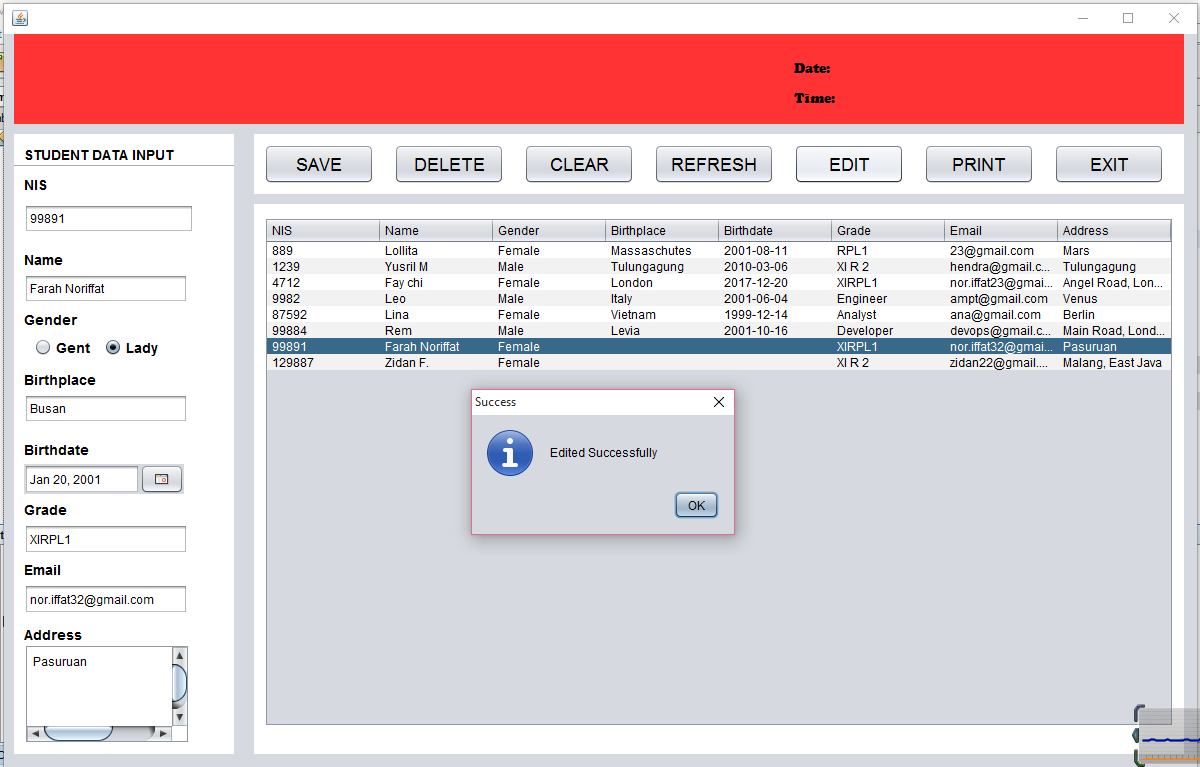
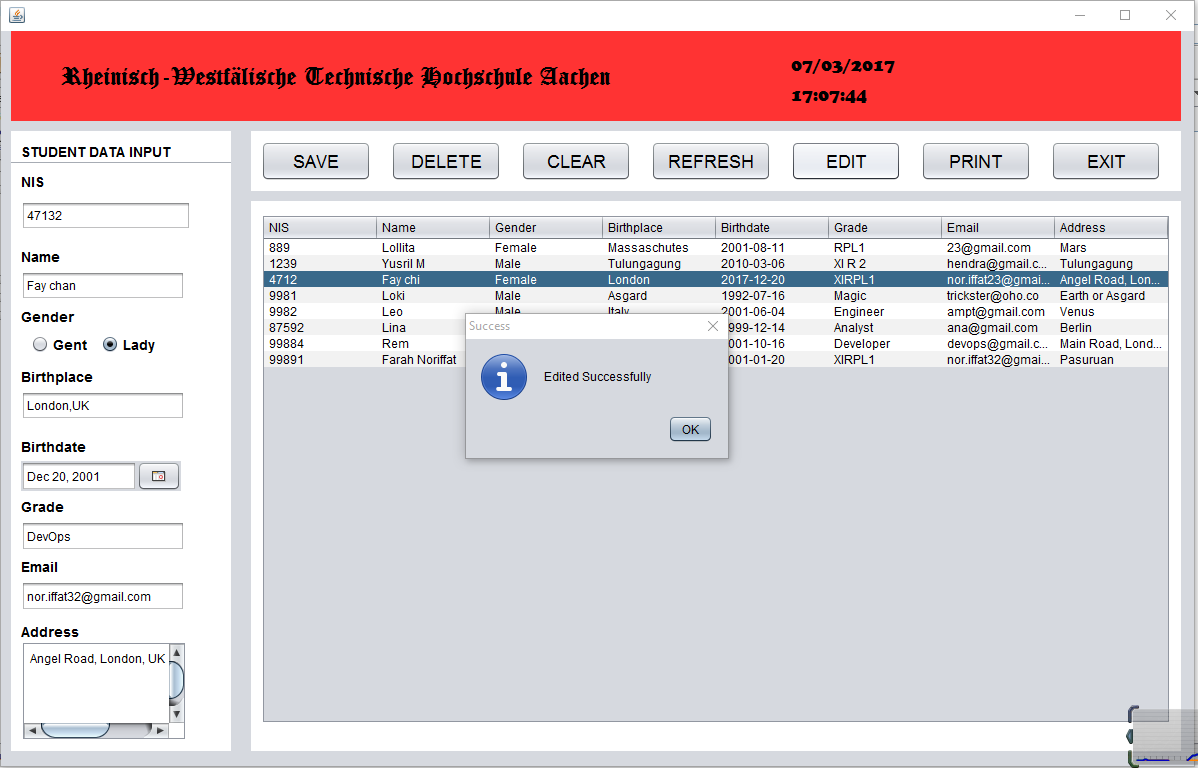
-Fixed Label and App Screenshoot

Changed region(s): [[0.0, 0.0, 1.0, 1.0]]

diff --git a/FORM/src/form/formsis.java b/FORM/src/form/formsis.java
@@ -33,6 +33,7 @@ public class formsis extends javax.swing.JFrame {
      */
     public formsis() {
         initComponents();
+        setDate(); setTime();
     }
 
     /**
@@ -48,6 +49,7 @@ public class formsis extends javax.swing.JFrame {
         jPanel1 = new javax.swing.JPanel();
         ltime = new javax.swing.JLabel();
         ldate = new javax.swing.JLabel();
+        jLabel10 = new javax.swing.JLabel();
         jPanel2 = new javax.swing.JPanel();
         jLabel1 = new javax.swing.JLabel();
         tf1 = new javax.swing.JTextField();
@@ -87,15 +89,20 @@ public class formsis extends javax.swing.JFrame {
         jPanel1.setBackground(new java.awt.Color(255, 51, 51));
         jPanel1.setLayout(null);
 
-        ltime.setFont(new java.awt.Font("Cooper Black", 0, 14)); // NOI18N
+        ltime.setFont(new java.awt.Font("Cooper Black", 0, 18)); // NOI18N
         ltime.setText("Time:");
         jPanel1.add(ltime);
         ltime.setBounds(780, 50, 254, 28);
 
-        ldate.setFont(new java.awt.Font("Cooper Black", 0, 14)); // NOI18N
+        ldate.setFont(new java.awt.Font("Cooper Black", 0, 18)); // NOI18N
         ldate.setText("Date:");
         jPanel1.add(ldate);
         ldate.setBounds(780, 20, 254, 28);
+
+        jLabel10.setFont(new java.awt.Font("Old English Text MT", 1, 24)); // NOI18N
+        jLabel10.setText("Rheinisch-Westfälische Technische Hochschule Aachen");
+        jPanel1.add(jLabel10);
+        jLabel10.setBounds(50, 20, 560, 50);
 
         getContentPane().add(jPanel1);
         jPanel1.setBounds(10, 0, 1170, 90);
@@ -512,6 +519,7 @@ public class formsis extends javax.swing.JFrame {
     private javax.swing.ButtonGroup buttonGroup1;
     private com.toedter.calendar.JDateChooser date1;
     private javax.swing.JLabel jLabel1;
+    private javax.swing.JLabel jLabel10;
     private javax.swing.JLabel jLabel2;
     private javax.swing.JLabel jLabel3;
     private javax.swing.JLabel jLabel4;
